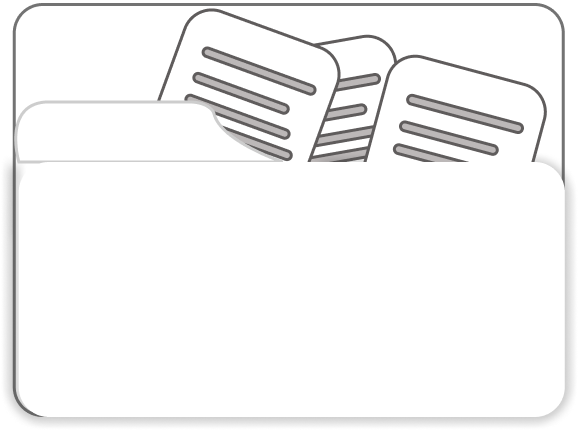
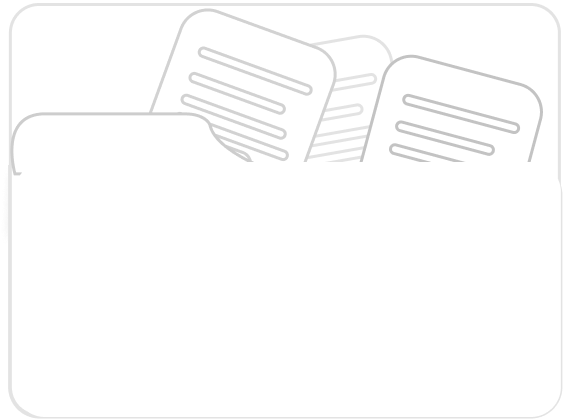
built the ui for  creating folder modal

Changed region(s): [[0.0, 0.0, 1.0, 1.0], [0.7851, 0.1551, 0.8757, 0.1862], [0.4529, 0.0621, 0.5133, 0.0931]]

diff --git a/src/App/Dashboard/Overview/Modals/Folder.jsx b/src/App/Dashboard/Overview/Modals/Folder.jsx
@@ -1,5 +1,38 @@
+import { X } from 'lucide-react'
+import folderImage from '../../../../assets/img/folder.png'
+import { useDispatch } from 'react-redux'
+import { toggleModals } from '../../../../store/modalSlice'
 export default function Folder () {
+  const dispatch = useDispatch()
+  function closeFolderModal () {
+    dispatch(toggleModals('folder'))
+  }
   return (
-    <section className='absolute min-h-140 p-8 pb-5 transition-all duration-200 ease-in-out translate-x-120 translate-y-10 z-51 shadow-xl w-[38%] bg-white rounded-2xl flex flex-col gap-4'></section>
+    <section className='absolute h-130 p-2 pb-5 transition-all duration-200 ease-in-out translate-x-130 translate-y-15 z-51 shadow-xl w-[28%] bg-white rounded-2xl flex flex-col gap-4'>
+      <div
+        onClick={() => {
+          closeFolderModal()
+        }}
+        className=' w-9 self-end  shadow-sm cursor-pointer flex justify-center items-center p-1 rounded-lg'
+      >
+        <X />
+      </div>
+      <div className=' w-full h-[70%] rounded-xl flex justify-center items-center bg-gray-50'>
+        <img src={folderImage} className=' w-[70%] h-auto' alt='' />
+      </div>
+      <di className='w-full px-10 mt-4'>
+        <input
+          type='text'
+          placeholder='Folder name'
+          className=' border-b border-gray-400 pb-2 w-full outline-0 '
+        />
+      </di>
+
+      <div className=' px-15 w-full'>
+        <button className='bg-orange-200 cursor-pointer rounded-xl w-full py-3 flex justify-center items-center '>
+          Create Folder
+        </button>
+      </div>
+    </section>
   )
 }

diff --git a/src/App/Dashboard/Rightbar/Rightbar.jsx b/src/App/Dashboard/Rightbar/Rightbar.jsx
@@ -1,0 +1,10 @@
+export default function Rightbar ({ width = 10 }) {
+  return (
+    <section
+      style={{ width: width }}
+      className='bg-[#f8f8f8] h-full p-10 '
+    >
+        
+    </section>
+  )
+}

diff --git a/src/App/Dashboard/Rightbar/Activity.jsx b/src/App/Dashboard/Rightbar/Activity.jsx
@@ -1,0 +1,7 @@
+export default function Activity() {
+    return (
+        <section>
+            
+        </section>
+    )
+}
